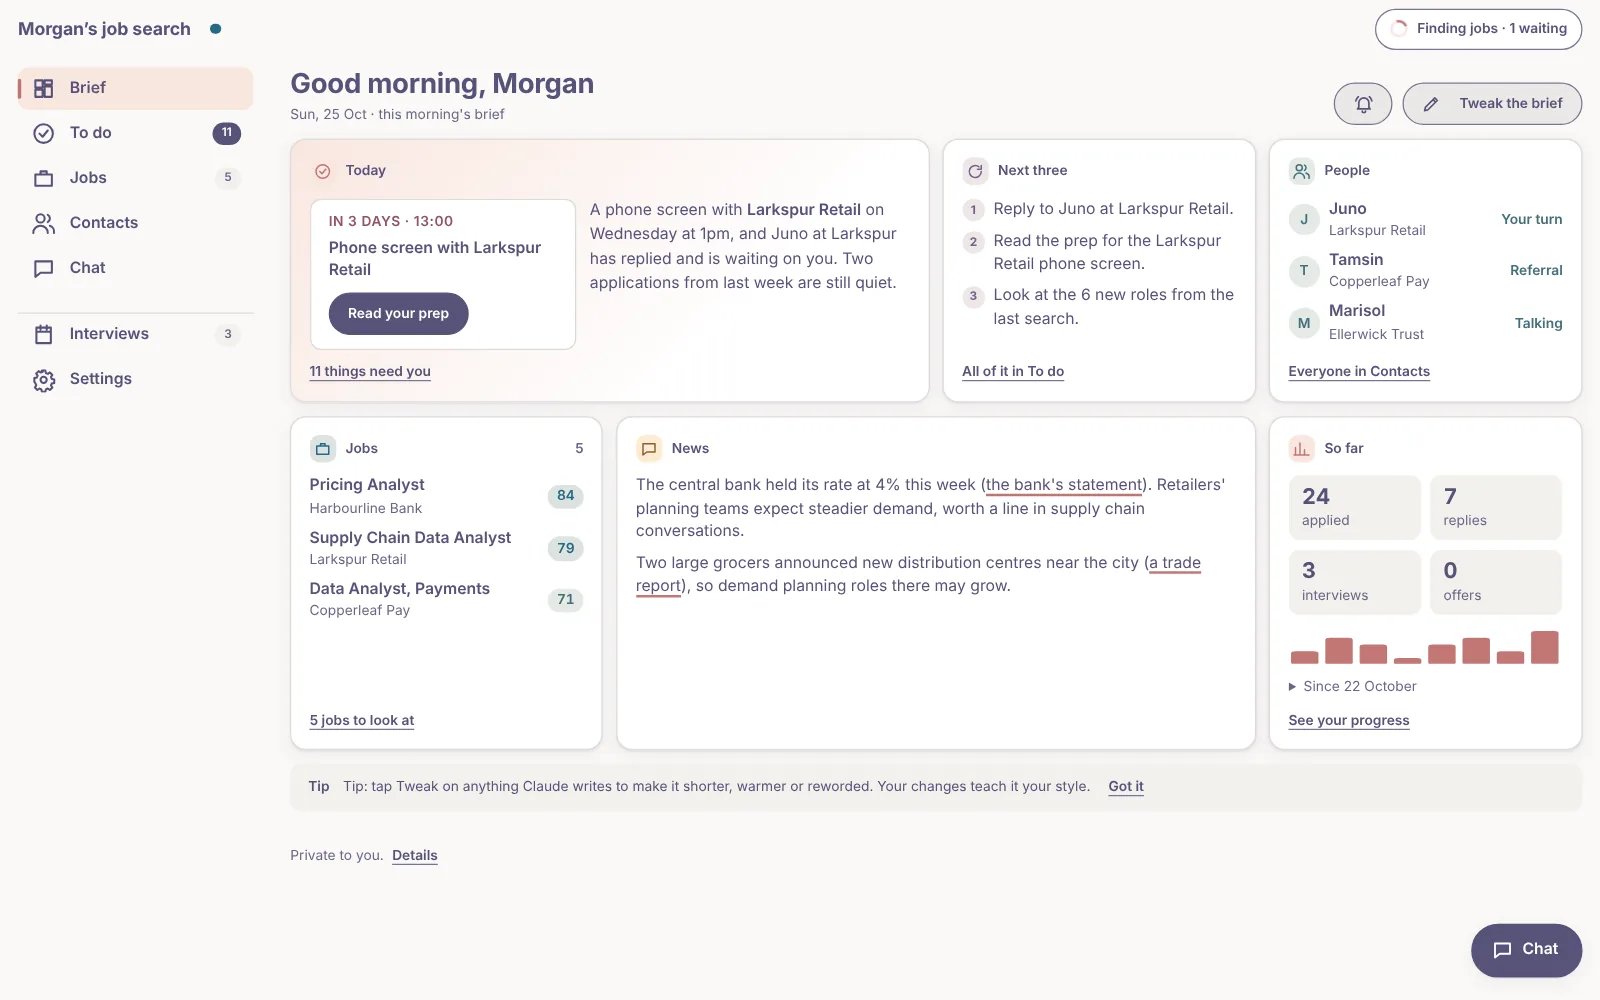
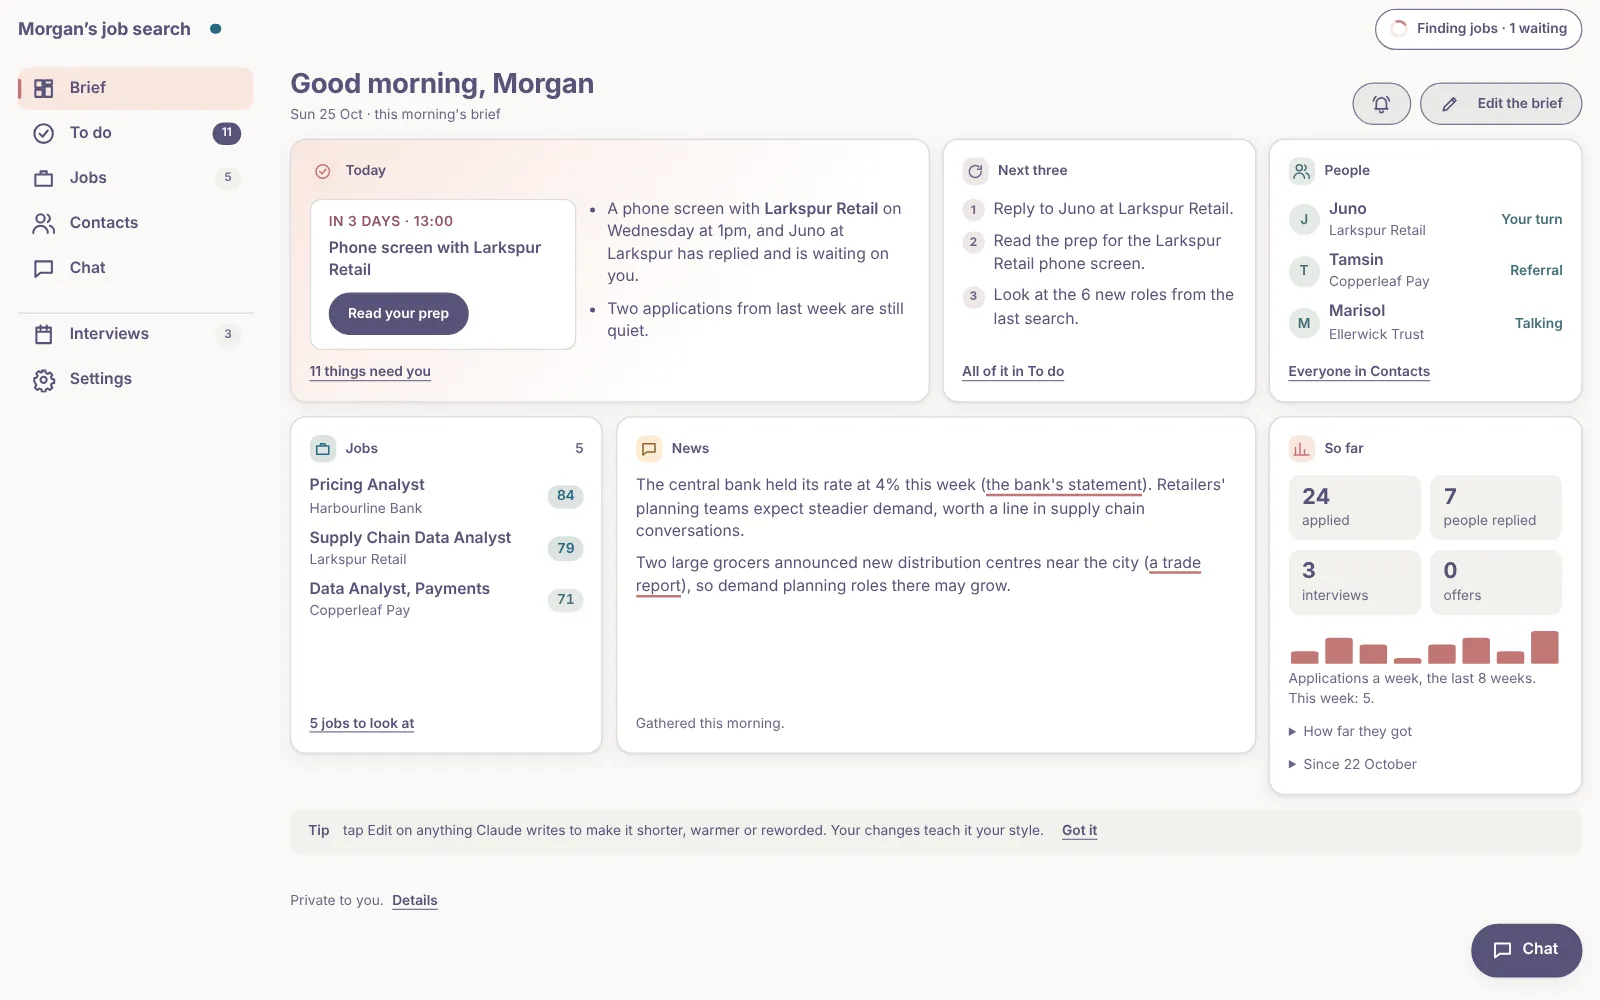
A shorter README with the 4.5 page, and the Brief's numbers never cut off
The README drops from about 1,360 words to about 560, with new pictures of
the Brief, Contacts and Interviews and a new walkthrough, all from the test
sample. The pictures showed the Brief's numbers panel cutting off "How far
they got" and hiding "Since the last brief" at 1280 by 800: the panel now
grows to fit, with a test that fails without it.

Claude-Session: https://claude.ai/code/session_019nr4JnWoRwaJz5bC6qn6MB

diff --git a/templates/app/app.js b/templates/app/app.js
@@ -2908,7 +2908,7 @@
     const t = Object.keys(obj(obj(M().help).tip)).length ? obj(obj(M().help).tip) : obj(M().tip);
     if (obj(M().help).off || settingOf("tips", "on") === "off") return null;
     const tid = txt(t.id) || "tip";
-    if (txt(t.text) && !effective(tid, ["tip.seen"])) return {text: txt(t.text).replace(/^Tip:\s*/, ""), done: () => act([{item: tid, action: "tip.seen", value: {area: txt(t.area)}, rev: txt(t.rev) || null}], "Tip put away")};
+    if (txt(t.text) && !effective(tid, ["tip.seen"])) return {text: cap1(txt(t.text).replace(/^Tip:\s*/, "")), done: () => act([{item: tid, action: "tip.seen", value: {area: txt(t.area)}, rev: txt(t.rev) || null}], "Tip put away")};
     const day = Math.floor(now() / 86400000);
     const k = "ljs:tip-off:" + day;
     if (sget("local", k)) return null;
@@ -6048,7 +6048,7 @@
     if (at !== tab && !(tab === "drafts" && at === "drafts-messages")) return null;
     const tid = txt(t.id) || "tip";
     if (effective(tid, ["tip.seen"])) return null;
-    return h("p", {class: "tip small muted"}, "Tip: " + txt(t.text).replace(/^Tip:\s*/, ""), " ", btn("Got it", () => act([{item: tid, action: "tip.seen", value: {area: txt(t.area)}, rev: txt(t.rev) || null}], "Tip put away"), {kind: "link", key: "tip-seen"}));
+    return h("p", {class: "tip small muted"}, "Tip: " + cap1(txt(t.text).replace(/^Tip:\s*/, "")), " ", btn("Got it", () => act([{item: tid, action: "tip.seen", value: {area: txt(t.area)}, rev: txt(t.rev) || null}], "Tip put away"), {kind: "link", key: "tip-seen"}));
   }
   const TOUR = [
     ["brief", "Brief", "Your day at a glance. Tap any line to go to it."],

diff --git a/tests/app_page/harness.js b/tests/app_page/harness.js
@@ -1037,6 +1037,26 @@ S.look = async (a) => {
   return r;
 };
 
+// Is one thing drawn wholly inside another (not cut off by its box), before and after a tap?
+S.inside = async (a) => {
+  const o = await open({html: a.html, viewport: a.viewport, hash: a.hash || "brief", clock: a.clock, seed: a.seed || {}});
+  const {page} = o;
+  await page.waitForSelector(a.inner, {timeout: 5000});
+  const fits = () => page.evaluate(([i, c]) => {
+    const el = document.querySelector(i);
+    const box = el.closest(c);
+    const r = el.getBoundingClientRect(), b = box.getBoundingClientRect();
+    const clip = el.closest(".bp-body") || box;
+    const k = clip.getBoundingClientRect();
+    return r.bottom <= Math.min(b.bottom, k.bottom) + 0.5 && r.height > 0;
+  }, [a.inner, a.box]);
+  const r = {closed: await fits()};
+  if (a.tap) { await page.locator(a.tap).first().click(); await turn(page, 4); r.opened = await fits(); }
+  r.errors = o.errors;
+  await o.ctx.close();
+  return r;
+};
+
 async function draftViaDialog(page, opts) {
   await page.getByRole("button", {name: "Draft this: Harbourline Bank, Pricing Analyst"}).click();
   await turn(page, 3);

diff --git a/templates/app/app.css b/templates/app/app.css
@@ -1215,6 +1215,9 @@ body.has-fab .shell { padding-bottom: calc(var(--tabs-h) + env(safe-area-inset-b
 .bp-news { --pc: var(--st-overdue); --pcbg: var(--st-overdue-bg); }
 .bp-numbers { --pc: var(--chart-a); --pcbg: var(--accent-soft); }
 @media (min-width: 760px) { .bpanel { max-height: 300px; } .bpanel.wide { grid-column: span 2; } }
+/* The numbers grow with what they show: "How far they got" was cut off at 1280 by 800, and
+   clipped when opened (2026-10-30). */
+@media (min-width: 760px) { .bpanel.bp-numbers { max-height: none; } }
 .bp-title { margin: 0; display: flex; align-items: center; gap: 8px; font-size: var(--t-sm); font-weight: 600; color: var(--ink); }
 .bp-ic { display: inline-grid; place-items: center; width: 24px; height: 24px; border-radius: 8px; color: var(--pc); background: var(--pcbg); }
 .bp-ic .ic { width: 16px; height: 16px; }

diff --git a/tools/build_versions.py b/tools/build_versions.py
@@ -672,8 +672,9 @@ METHODS: dict[str, dict] = {
             (6, "2026-10-29", True, "a Brief page is the home screen (today, the next three steps, who is waiting by name, the best new jobs, news, numbers and a tip, on one laptop screen); seven places instead of eight (Drafts and Applied inside Jobs, messages inside Contacts, numbers on the Brief); To do starts with five; Contacts opens on who needs you; Your profile is its own page from Settings; Settings is regrouped with how the app runs folded; names open the person and a bin offers the usual choices; more job filters; Add a job takes a typed name; calmer draft cards; the prep reads as a document beside what was sent; three sizes, Standard the old Small and Larger the old Standard; the light look is as light as Claude's; every record the page writes carries its version and the busiest live under new names; the page is published without comments; no chat is ever started for the page; To do is today first (five, then Show N more, then Coming up) with one count everywhere and each card opening its own job or person; Contacts folds who owes nothing below who needs you; a phone is drawn smaller with full-size tap areas and buttons drawn the size of their words; jobs sort by their number, with a hover saying what it means; a question mark follows its last word, three at most a screen; a bell on the Brief turns the brief on, off or to other days through the same sheet as Settings; waiting work says it waits its turn in the same chat, and an update shows as a moving line under the header; each bin choice does what it says (an employer not wanted any more closes everyone there not yet written to and turns it down by name; in touch another way keeps the route and sets the note aside); the Where long tasks run setting is gone, work going to the chat that answers the page; a brief asked for from a page answered on the computer goes to the cloud and opens the helper in the same tap; tips and the Brief's next steps name the page's buttons; bringing old chats back and pinning the page are buttons; LinkedIn profiles read by the page itself in the desktop app (a profile and its Experience, Education and activity pages), Write my notes after a batch, I paste them as a setting, big jobs side by side, a big LinkedIn download sent in parts; on an iPhone the tweak panel opens at full size (it opened 2px tall), and the filter footer no longer reads null; on a laptop the filter panel opens under its button in every browser; focus goes back to the button after a panel closes on an updated page"),
             (7, "2026-10-29", True, "finished work says Done with no bar and folds itself away a minute later; Find jobs and Find people turn into what is going while a run is, so a second tap shows the work instead of starting another; Find people takes a note in your own words, as Find jobs does; each screen says when Claude is working on it; a bin on a job or draft is a row of short choices with Too old, and only No more from an employer turns that employer down; the bin on a To do row takes the row away as it is chosen; Contacts counts as needing you only who does, with follow-ups you could send counted apart; the progress bar's shine glides; slow work says it is taking longer than usual and that Claude is still on it, never Stalled or the usage limit; a search is timed by how long its job sites say is left; the usage limit shows only when Claude says so, and Try again only when the work has stopped; work asked for in a chat shows as Claude is busy in your chat; once the job sites are done, a search says which step it is on instead of a time left; the bin on a To do row hides only what the chat will close, so a reply you are owed stays; an interview ended on the page shows again when a chat books a new stage; screen readers hear the label before a fix or a suggestion"),
             (8, "2026-10-30", True, "no write to the page asks a person: its files are named so Claude Code never reads them as a disguised short name; work Claude has picked up says Starting, and the step it is on has a clock in seconds that ticks on the page; slow work shows how long it has run with no words about being slow; a finished job's summary is one short sentence, with a bin that puts it away; the resume card says one thing to do; like items in To do are one checklist card, five shown and the rest one tap below, and people who have not answered two messages are closed rather than drafted to; the News card says when it was gathered; LinkedIn is checked quietly once a week on a computer where it works, its sign-in page opens by itself when it does not, and the page says the tab can be closed; the line after an update gives the page's link, a chat with the update takes the page from a chat quiet for an hour, and publishing closes the request still waiting; Find jobs and Find people ask how many, a few by default; drafts asked together run as one job; Tweak is Edit; the Brief opens on points with whole news and labelled bars; Contacts say who someone came through; Settings show lists as chips, a time picker and an editable time zone, what each Left out rule left out, and no Undo in What's new; stopped work can be put away; a long prep scrolls on a phone; the chat that answers the page renews itself daily; the page offers to pin itself on the Brief and while the first search runs, a Not now coming back a month later and three answers the last; tips are said in plain words"),
+            (9, "2026-10-30", False, "the Brief's numbers grow to fit, so How far they got and Since the last brief are never cut off; a tip from an older version starts with a capital"),
         ),
-        "fingerprint": "9221300d85750d80",
+        "fingerprint": "6924f3550a8ab41b",
     },
     "upskill": {
         "by": "upgrade", "priority": 4, "applies": "upskill_plans", "time": "~10 min",

diff --git a/tests/test_the_page_works_in_a_browser.py b/tests/test_the_page_works_in_a_browser.py
@@ -1360,3 +1360,13 @@ def test_the_page_offers_the_pin_on_the_brief_and_while_the_first_search_runs(ru
             sels=['[data-item="setup"]', ".pin-offer"])
     _clean(r)
     assert r["found"]['[data-item="setup"]'] and r["found"][".pin-offer"] == [], r["found"]
+
+
+def test_the_numbers_on_the_brief_are_never_cut_off(run, pages):
+    """At 1280 by 800 the panel's last line, "How far they got", was half hidden, and opening
+    it showed nothing more (seen on the README's own picture, 2026-10-30)."""
+    for vp in ({"width": 1280, "height": 800}, {"width": 1440, "height": 900}, {"width": 800, "height": 900}):
+        r = run("inside", html=pages["sample"], viewport=vp, clock="2026-10-25T09:00:00Z",
+                inner='[data-k="bp-funnel"]', box=".bp-numbers", tap='[data-k="bp-funnel"]')
+        _clean(r)
+        assert r["closed"] and r["opened"], (vp, r)

diff --git a/README.md b/README.md
@@ -1,13 +1,9 @@
 # last-job-search
 
-**The last job search tool you'll ever need.** Claude finds jobs that fit you, scores each one,
-writes and checks a resume and cover letter for the ones you choose, finds the people worth
-talking to and drafts what to say, keeps track of every application and conversation, reminds
-you when to follow up, and gets you ready for interviews. It all happens on one private page
-that Claude keeps up to date: you tap, and Claude does the work. It never sends anything. You
-stay in charge of what goes out.
-
-> **Find jobs** → **score each one** → **you choose** → **write and check** → **find the people** → **follow up**
+**The last job search tool you'll ever need.** Claude finds jobs that fit you and scores each
+one, writes and checks a resume and cover letter for the ones you pick, finds people worth
+talking to, keeps track of everything and gets you ready for interviews. It all happens on one
+private page. It never sends anything for you.
 
 [![CI](https://github.com/aranculleton/last-job-search/actions/workflows/ci.yml/badge.svg)](https://github.com/aranculleton/last-job-search/actions/workflows/ci.yml)
 
@@ -15,17 +11,13 @@ stay in charge of what goes out.
   <img src="docs/images/page-brief.webp" width="720"
        alt="The Brief: today's interview, the next three things to do, who is waiting on you, the best new jobs, news and your numbers">
   <br>
-  <sub><b>The Brief</b>, your home screen: the day at a glance</sub>
+  <sub><b>The Brief</b>: your day at a glance</sub>
 </p>
 
 ## What you need
 
-- A GitHub account (free).
-- A paid Claude plan, which comes with Claude Code: your search runs in its cloud chats.
-  - Another agent tool (ChatGPT Codex, Google's Gemini CLI, the Cursor editor)? The core
-    works in any agent that can read files and run commands; [AGENTS.md](AGENTS.md) covers
-    the Claude Code parts.
-- No coding, and nothing to install first. A phone is enough.
+- A GitHub account (free) and a paid Claude plan. Nothing to install: a phone is enough.
+- Using another agent tool? See [AGENTS.md](AGENTS.md).
 
 ## Get started
 
@@ -34,109 +26,67 @@ stay in charge of what goes out.
    [Claude GitHub App](https://github.com/apps/claude/installations/new) on your copy only.
 3. Choose your copy and say **"set me up"**.
 
-That works from a phone or any browser: everything runs in the cloud. On a computer, open your
-page in the Claude desktop app once: it reads the LinkedIn profiles of people you write to,
-in Claude's own browser, so each note fits them. Nothing to install beyond the app.
-
-[START_HERE.md](START_HERE.md) has each step; [HELP.md](HELP.md) helps if something goes wrong.
+No resume yet? Say "build one with me". [START_HERE.md](START_HERE.md) has each step, and
+[HELP.md](HELP.md) helps if something goes wrong.
 
 ## What it looks like
 
 <p align="center">
   <img src="docs/images/page-demo.webp" width="720"
-       alt="A walk through your page: the Brief, To do, Jobs and Drafts, Contacts and Messages, Interviews, then an interview prep opened">
+       alt="A walk through the page: the Brief, To do, Jobs, Contacts, Chat, Interviews, then an interview prep opened">
   <br>
-  <sub>A walk through your page, with an invented search on it. Every name is made up.</sub>
+  <sub>A walk through the page. Every name is made up.</sub>
 </p>
 
 <p align="center">
   <img src="docs/images/page-contacts.webp" width="62%"
-       alt="Contacts on a computer: who needs you first, with Claude working in the background">
+       alt="Contacts on a computer: who needs you first, with Claude's work alongside">
   &nbsp;
   <img src="docs/images/page-interviews-phone.webp" width="18%" alt="Interviews on a phone">
-  <br>
-  <sub><b>Contacts</b> on a computer: who needs you first &nbsp;·&nbsp; <b>Interviews</b> on a phone: what is coming up</sub>
 </p>
 
-## What you do on your page
+## What you do
 
-You tap; Claude does the work in the background and shows how far it has got.
-
-| You tap | You get |
+| Tap | You get |
 |---|---|
-| Open your page | **The Brief**: today, the next three steps, who is waiting on you, the best new jobs, news for your search, your numbers |
 | **Find jobs** | New jobs, each scored 0 to 100 against you, with the reasons |
-| **Draft this** on a job you like | A resume and cover letter written for that job, checked |
-| **Add a job** (paste a link or the posting) | The same, for a job you found yourself |
-| **Find people** | People worth talking to at the employers you want, and a first note for each. You send it |
-| **To do** | What needs you, five at a time: replies and follow-ups that are due, drafted for you |
-| **I heard back**, or **Got a message?** | The record updated, a reply drafted, and what to do next |
-| **Prepare me** on an interview | Likely questions, your best answers and questions to ask |
-| **Tweak** on anything Claude made | A change of look, length or tone |
-| The **bin** on anything | It goes, and you say why once: the next search or note learns |
-| The **bell** on your Brief | A short note each morning: what is due, and news for your search |
+| **Draft this** | A resume and cover letter for that job, checked |
+| **Find people** | People worth talking to, and a first note for each |
+| **To do** | Replies and follow-ups that are due, drafted for you |
+| **Prepare me** | Likely questions, your best answers and questions to ask |
+| **Edit**, or the **bin** | Your change, or a no and why: it remembers both |
 
-Anything else, ask in **Chat** on the page. No resume yet? Say "build one with me" there. It
-never asks for your email: everything reaches you on your page.
+Anything else, ask in **Chat** on the page.
 
-## Why it works differently
+## Why it's different
 
-- **It ranks, it does not hide.** A job advert is a wish list. A missing skill lowers a score;
-  it does not throw the job away. Only a few things rule a job out, such as needing a right to
-  work you do not have, or a language you do not speak. Rulings based on your rules are
-  re-checked when the rules change; ones in your own words stay until you change your mind.
-- **It works your network, not just the job boards.** It looks where people in your field
-  are actually named (team pages, meetups, speaker lists, alumni), says in a line why each
-  person is worth writing to, and writes every message in the shape that suits them: the first
-  note (which asks for a conversation, not a job), the replies and the referral ask. It tracks
-  every thread and warns you before a cold application lands on top of a warm introduction.
-- **It reminds you.** When a follow-up is due, on an application or a conversation, it says so
-  and drafts the nudge. A short note each morning, on from the start: what you owe, what
-  changed and the next three things to do (the bell on your Brief changes it).
-- **One chat does the work.** Your page is answered by one chat, which also writes the brief
-  and runs long jobs inside itself. The app never starts chats by itself, and old ones from
-  earlier versions tidy themselves away, with nothing in them lost.
-- **It checks its own work.** Every resume is compiled, read back and checked the way an
-  applicant tracking system reads it, and every claim against what you told it.
-- **It remembers.** Applications, conversations and what is due live in files in your copy,
-  not in a chat that ends.
-- **It learns what you like.** Tweak a note, or bin a job and say why, once, and it sticks. It also notices which messages got replies and which applications got interviews.
-- **It keeps itself up to date.** Each release reaches your copy by itself the next time you
-  use it, even in a chat kept open for weeks. Nothing about you is ever sent back.
+- **It ranks, it doesn't hide.** A missing skill lowers a score; only real deal-breakers rule
+  a job out.
+- **It works your network**, not just job boards, and reminds you when to follow up.
+- **It checks its own work**: every resume is read back the way hiring software reads it,
+  and every claim against what you told it.
+- **It learns** from what you change, and **updates itself**.
 
-## Your data and security
+## Your data
 
-Everything about you stays in your private copy, and nothing is submitted for you: every
-document stops as a file, and you send it. Job postings are written by strangers, so their text
-is treated as data, never as instructions, and a link inside one is never opened. A check
-fails any change that weakens the permission allowlist or lets personal files into the app.
-[SECURITY.md](SECURITY.md) has the details.
+Everything about you stays in your private copy. Job postings are treated as data, never as
+instructions. [SECURITY.md](SECURITY.md) has the details.
 
 ## For the technically curious
 
-You never need any of this to use it.
-
 | | |
 |---|---|
-| Set up a computer or a cloud environment by hand | [SETUP.md](SETUP.md) |
-| What a search does, step by step | [RUNBOOK.md](RUNBOOK.md) |
-| How each stage works and what it costs | [ARCHITECTURE.md](ARCHITECTURE.md) |
-| The rules every chat follows, and where every other rule lives | [CLAUDE.md](CLAUDE.md) |
-| The morning brief and scheduled searches | [automation/README.md](automation/README.md) |
-| Scoring rubric, writing style, cost model | [`.claude/skills/job-application-assistant/`](.claude/skills/job-application-assistant/) |
-| Reporting a bug or suggesting something | [CONTRIBUTING.md](CONTRIBUTING.md) |
-| Working on the app itself | [MAINTAINING.md](MAINTAINING.md) |
+| Setting up by hand | [SETUP.md](SETUP.md) |
+| What a search does | [RUNBOOK.md](RUNBOOK.md) |
+| How it works and what it costs | [ARCHITECTURE.md](ARCHITECTURE.md) |
+| Bugs and ideas | [CONTRIBUTING.md](CONTRIBUTING.md) |
+| Working on the app | [MAINTAINING.md](MAINTAINING.md) |
 
-Searching, filtering and scoring are plain Python and Bash, so a search reads thousands of
-postings without using the model. The model starts only when you pick what to write. The
-tests run in CI on macOS and Linux, and on any copy through `./tools/ci_local.sh`. The
+Searching and scoring are plain Python, so thousands of postings cost no model time. The
 employer-board reader is also published as [openroles](https://github.com/aranculleton/openroles).
 
 ## Credits and licence
 
 Built on [MadsLorentzen/ai-job-search](https://github.com/MadsLorentzen/ai-job-search) (v1.7.0
-plus the commits through PR #413), which supplied the LaTeX scaffolding, the job-board CLI
-pattern, the skills-and-commands layout and the drafter-reviewer idea. Everything before the
-shortlist, the bullet allocator, the checks and the networking layer were built here.
-
-MIT. [LICENSE](LICENSE) carries both copyrights. Not affiliated with Anthropic.
+plus the commits through PR #413). MIT: [LICENSE](LICENSE) carries both copyrights. Not
+affiliated with Anthropic.

diff --git a/docs/NEXT_BUILDER.md b/docs/NEXT_BUILDER.md
@@ -34,7 +34,12 @@ MAINTAINING.md first; this is only what 4.5 left.
 - The 4.2 newcomer journey findings were never closed as a list: the apply link, the
   searching state, applied shown the same everywhere, a double paste, forms rather than chat,
   and the wording.
-- The README's pictures, video and wording predate the 4.5 page and are too long.
+- The README's pictures come from the test sample through the harness's `shots` and `walk`
+  scenarios (1280 by 800 at 1.25, the phone at 390 by 844 at 2), put together with Pillow;
+  no script for it is kept in the app.
+- Windows, on the 4.5.0 release run: `tests/test_research_fetches_once_and_remembers_each_host.py::test_writers_at_the_same_moment_all_land`
+  lost writes from writers at the same moment (facts 1, 4 to 7 missing). 4.5 did not touch
+  the research cache, so it is a Windows race in it: reproduce with the Windows suite.
 
 ## Not tested against the live services
 

diff --git a/CHANGELOG.md b/CHANGELOG.md
@@ -20,6 +20,16 @@ make sense to somebody whose repo just received it.
 
 ## [Unreleased]
 
+### Fixed
+
+- **The Brief's numbers are never cut off.** On a laptop screen "How far they got" was half
+  hidden and "Since the last brief" not shown at all; the panel now grows to fit.
+
+### Changed
+
+- **The README is a third of its old length**, with pictures and a walkthrough of the 4.5
+  page.
+
 ## [4.5.0] - 2026-10-30
 
 ### Fixed
